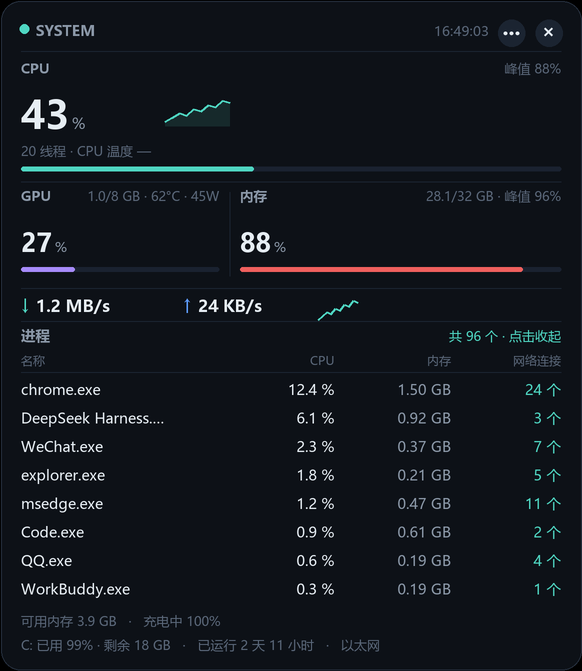
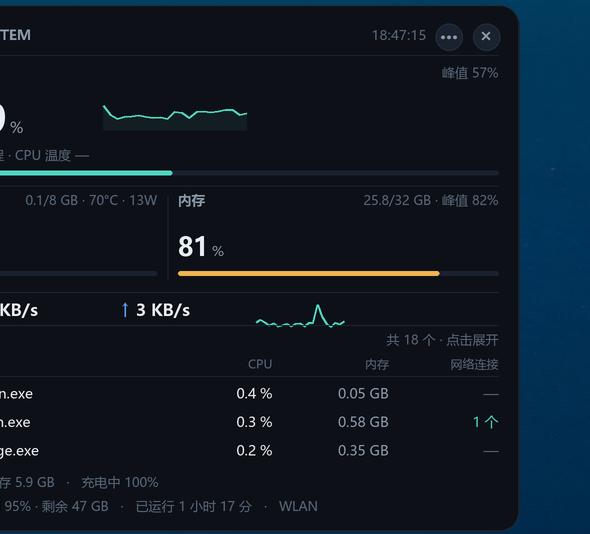
docs: README 重排版（图片居中等宽、分区清晰）
fix: 详情卡圆角改成硬边透明键，浅色主题不再有黑边或突出角
fix: 全屏判定改为必须盖住任务栏，最大化窗口不再误判
fix: 分层窗口整体抬到 alpha>=1，透明处也能接收点击

diff --git a/README.md b/README.md
@@ -1,6 +1,6 @@
 <div align="center">
 
-<img src="docs/images/icon.png" width="88" alt="icon">
+<img src="docs/images/icon.png" width="76" alt="icon">
 
 # 桌面性能监视器
 
@@ -11,7 +11,11 @@
 ![Deps](https://img.shields.io/badge/deps-Pillow-brightgreen)
 ![Release](https://img.shields.io/github/v/release/1181110317/desktop-monitor?color=2ea043)
 
-<img src="docs/images/taskbar.png" width="560" alt="任务栏效果">
+<br>
+
+<img src="docs/images/taskbar.png" width="520" alt="任务栏效果">
+
+<sub>贴在托盘左边，背景真透明，看不出是浮窗</sub>
 
 </div>
 
@@ -19,31 +23,49 @@
 
 ## 它能做什么
 
-- **嵌在任务栏里**：贴在托盘左边，背景真透明，看不出是浮窗
-- **点一下看详情**：CPU / GPU / 内存 / 上下行 / **Top 进程**（CPU、内存、活跃连接数）/ 温度 / 磁盘 / 电池，弹在条的正上方
-- **三套样式 + 四套主题**：素净 / 胶囊 / 描边；详情卡支持深色 / 浅色 / 简约 / 玻璃
+- **嵌进任务栏**：CPU / 内存 / 上传 / 下载，两行四格，一秒一刷
+- **点一下看详情**：CPU、GPU、内存、网速曲线、Top 进程、温度、磁盘、电池
+- **三套样式 + 四套主题**：素净 / 胶囊 / 描边；详情卡深色 / 浅色 / 简约 / 玻璃
+- **进程列表可展开**：默认 3 行，点表头展开到 8 行
 - **零服务零联网**：采样全走 Windows API，只有渲染用 Pillow
 - **崩溃自愈**：看门狗每 3 分钟检查，进程没了自动拉起
 
-<img src="docs/images/detail.png" width="440" alt="详情">
+---
 
-<table>
-<tr>
-<td><img src="docs/images/settings.png" width="360" alt="设置"></td>
-<td>
+## 详情卡
 
-**设置窗口**里可以改：
+<div align="center">
 
-- 任务栏样式、字色主题、详情卡主题
-- 刷新间隔（滑块 0.5–5 秒）
-- 不透明度（滑块 30%–100%）
+<img src="docs/images/detail.png" width="430" alt="详情">
+
+</div>
+
+- CPU 占用、峰值、60 秒曲线
+- GPU 占用 / 显存 / 温度 / 功耗（走 `nvidia-smi`）
+- 内存占用、峰值、总容量
+- 实时上下行 + 流量曲线
+- Top 进程：名称 / CPU / 内存 / 活跃连接数
+- 页脚：可用内存、电池、磁盘、开机时长、网卡
+
+---
+
+## 设置
+
+<div align="center">
+
+<img src="docs/images/settings.png" width="360" alt="设置">
+
+</div>
+
+入口是详情卡右上角的 `···`：
+
+- 任务栏样式：素净 / 胶囊 / 描边
+- 字色主题：跟随任务栏 / 深色字 / 浅色字
+- 详情卡主题：深色 / 浅色 / 简约 / 玻璃
+- **滑块调刷新间隔**（0.5–5 秒）和**不透明度**（30%–100%）
 - 锁定位置、开机自启
 
-入口：展开详情后点右上角 `···`
-
-</td>
-</tr>
-</table>
+---
 
 ## 快速开始
 
@@ -62,19 +84,28 @@ python monitor.pyw
 pyinstaller --noconfirm --onefile --windowed --icon icon.ico --name DesktopMonitor monitor.pyw
 ```
 
+---
+
 ## 技术实现
 
-单文件 `monitor.pyw`，约 2200 行：
+单文件 `monitor.pyw`，约 2300 行。
 
 | 部分 | 用的东西 |
 | --- | --- |
-| 采样 | `GetSystemTimes` `GlobalMemoryStatusEx` `GetIfTable2` `GetDiskFreeSpaceExW`，GPU 走 `nvidia-smi` |
+| 采样 | `GetSystemTimes`、`GlobalMemoryStatusEx`、`GetIfTable2`、`GetDiskFreeSpaceExW`，GPU 走 `nvidia-smi` |
 | 进程 | `CreateToolhelp32Snapshot` + `GetProcessTimes` / `GetProcessMemoryInfo`，连接数来自 `GetExtendedTcpTable` |
 | 任务栏停靠 | `SHAppBarMessage` + `EnumChildWindows` 找托盘位置 |
-| 渲染 | Pillow 超采样，任务栏那层用 **WS_EX_LAYERED + UpdateLayeredWindow** 做逐像素透明 |
+| 渲染 | Pillow 超采样；任务栏那层用 **WS_EX_LAYERED + UpdateLayeredWindow** 做逐像素透明 |
 | 托盘 | `Shell_NotifyIconW` + 自定义 `WndProc` |
 
-踩坑记录（都写在代码注释里）：`W` 后缀 API 不声明原型会在 64 位下越界崩溃、`MIB_IF_ROW2` 的 `OutOctets` 偏移与文档不符导致上传速度永远是 0、Tk 透明色键做不出半透明边缘……
+踩过的坑（都写在代码注释里）：
+
+- `W` 后缀 API 不声明原型，64 位下参数溢出会让回调返回 0，直接 BEX 崩溃
+- `MIB_IF_ROW2` 的 `OutOctets` 偏移与文档不符（实际 1280），上传速度才会一直是 0
+- `WndProc` 里调 Tk 会重入 Tcl，进程每 1–2 分钟崩一次；改成投递队列后才稳
+- Tk 的透明色键做不出半透明边缘，任务栏那层必须换分层窗口
+
+---
 
 ## 许可
 
